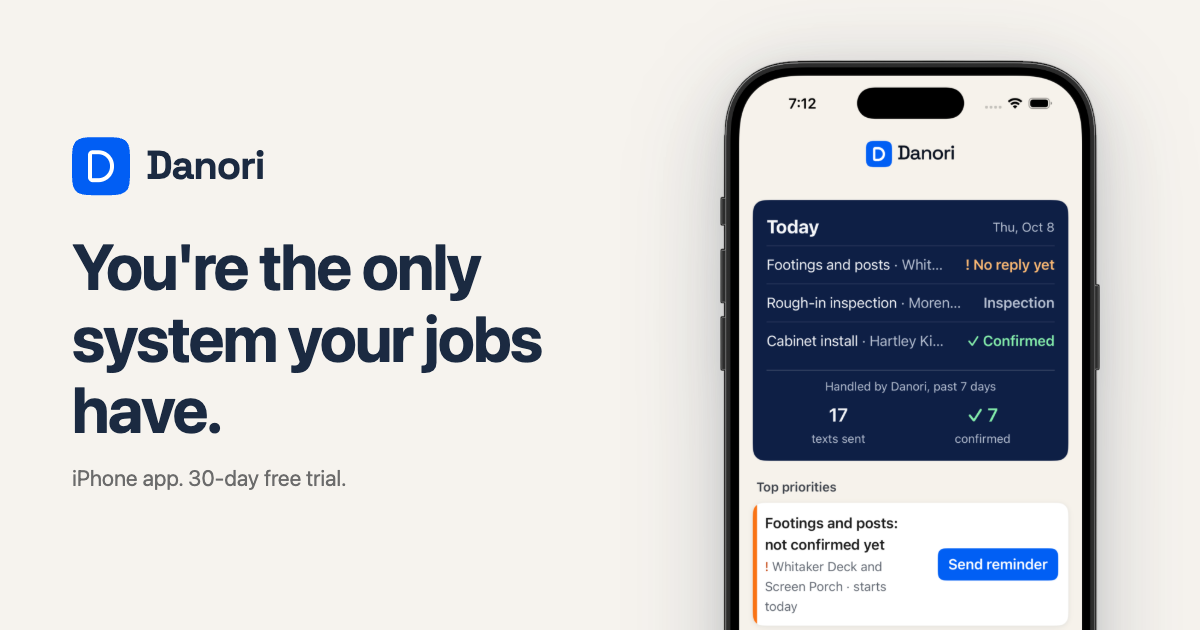
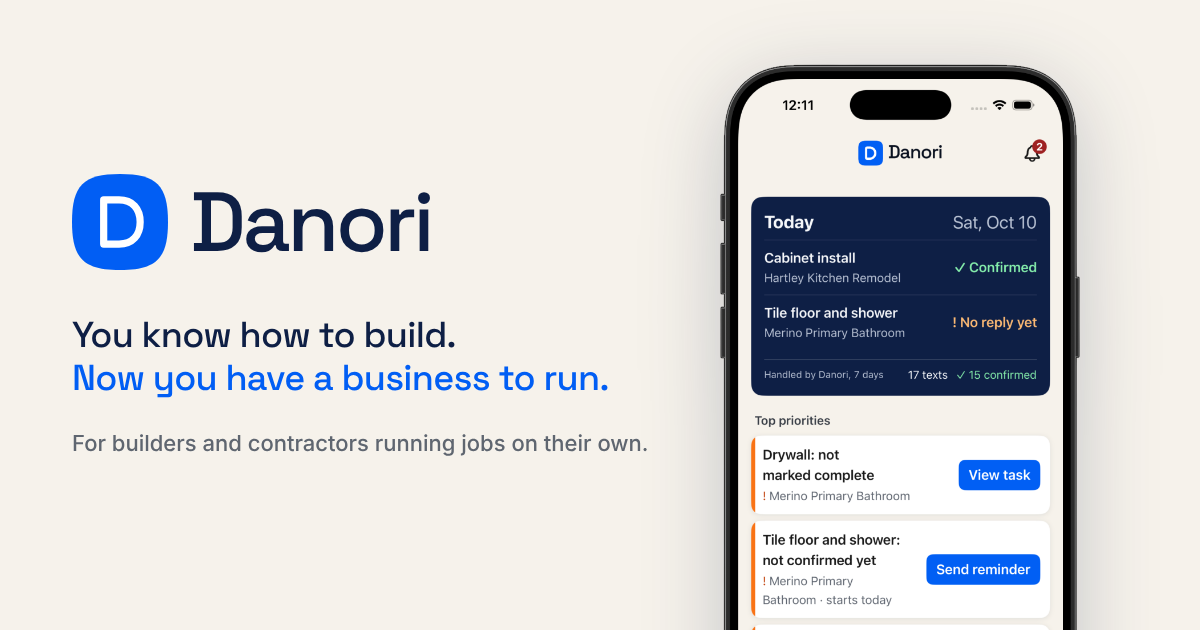
new link preview image to match the updated headline

Changed region(s): [[0.5858, 0.0905, 0.925, 1.0], [0.0617, 0.2111, 0.555, 0.7841], [0.5858, 0.3619, 0.6167, 0.3921]]

diff --git a/index.html b/index.html
@@ -9,12 +9,12 @@
   <meta name="description" content="An iPhone app for builders and contractors running jobs on their own. Danori texts your subs, tracks each job's costs and profit, and keeps your clients updated, so you can see what needs you today.">
   <meta property="og:title" content="Danori: Construction Management App for Builders and Contractors">
   <meta property="og:description" content="An iPhone app for builders and contractors running jobs on their own. Danori texts your subs, tracks each job's costs and profit, and keeps your clients updated, so you can see what needs you today.">
-  <meta property="og:image" content="https://danoriapp.com/images/og-image.png?v=2">
+  <meta property="og:image" content="https://danoriapp.com/images/og-image.png?v=3">
   <meta property="og:image:width" content="1200">
   <meta property="og:image:height" content="630">
   <meta property="og:image:alt" content="Danori on an iPhone showing today's jobs and top priorities">
   <meta property="twitter:card" content="summary_large_image">
-  <meta property="twitter:image" content="https://danoriapp.com/images/og-image.png?v=2">
+  <meta property="twitter:image" content="https://danoriapp.com/images/og-image.png?v=3">
   <link rel="stylesheet" href="styles.css">
   <link rel="stylesheet" href="styles/mobile.css" media="(max-width: 767px)">
   <script type="application/ld+json">

diff --git a/pricing.html b/pricing.html
@@ -9,12 +9,12 @@
   <meta name="description" content="Two plans, same Danori. $99 a month for up to 5 active jobs, $149 for unlimited. First month free, no card to start. iPhone only, US only.">
   <meta property="og:title" content="Danori Pricing: Plans From $99/Month">
   <meta property="og:description" content="Two plans, same Danori. $99 a month for up to 5 active jobs, $149 for unlimited. First month free, no card to start. iPhone only, US only.">
-  <meta property="og:image" content="https://danoriapp.com/images/og-image.png?v=2">
+  <meta property="og:image" content="https://danoriapp.com/images/og-image.png?v=3">
   <meta property="og:image:width" content="1200">
   <meta property="og:image:height" content="630">
   <meta property="og:image:alt" content="Danori on an iPhone showing today's jobs and top priorities">
   <meta property="twitter:card" content="summary_large_image">
-  <meta property="twitter:image" content="https://danoriapp.com/images/og-image.png?v=2">
+  <meta property="twitter:image" content="https://danoriapp.com/images/og-image.png?v=3">
   <link rel="stylesheet" href="styles.css">
   <link rel="stylesheet" href="styles/pricing.css">
   <link rel="stylesheet" href="styles/mobile.css" media="(max-width: 767px)">

diff --git a/guides/best-apps-for-solo-builders.html b/guides/best-apps-for-solo-builders.html
@@ -11,12 +11,12 @@
   <meta property="og:title" content="Best Apps for Solo Builders and Contractors to Manage Jobs, and What They Cost | Danori">
   <meta property="og:description" content="Free and paid apps for solo builders and contractors to manage jobs, with prices checked on each company's own site. What each one is good at, and who it's not for.">
   <meta property="og:url" content="https://danoriapp.com/guides/best-apps-for-solo-builders">
-  <meta property="og:image" content="https://danoriapp.com/images/og-image.png?v=2">
+  <meta property="og:image" content="https://danoriapp.com/images/og-image.png?v=3">
   <meta property="og:image:width" content="1200">
   <meta property="og:image:height" content="630">
   <meta property="og:image:alt" content="Danori on an iPhone showing today's jobs and top priorities">
   <meta property="twitter:card" content="summary_large_image">
-  <meta property="twitter:image" content="https://danoriapp.com/images/og-image.png?v=2">
+  <meta property="twitter:image" content="https://danoriapp.com/images/og-image.png?v=3">
   <link rel="stylesheet" href="/styles.css">
   <link rel="stylesheet" href="/styles/compare.css">
   <link rel="stylesheet" href="/styles/mobile.css" media="(max-width: 767px)">

diff --git a/compare/contractor-foreman-alternative.html b/compare/contractor-foreman-alternative.html
@@ -11,12 +11,12 @@
   <meta property="og:title" content="Contractor Foreman Alternative for Solo Builders | Danori">
   <meta property="og:description" content="Contractor Foreman is built for small and medium contractors. Danori is built for the builder running jobs alone. An honest side-by-side with real prices.">
   <meta property="og:url" content="https://danoriapp.com/compare/contractor-foreman-alternative">
-  <meta property="og:image" content="https://danoriapp.com/images/og-image.png?v=2">
+  <meta property="og:image" content="https://danoriapp.com/images/og-image.png?v=3">
   <meta property="og:image:width" content="1200">
   <meta property="og:image:height" content="630">
   <meta property="og:image:alt" content="Danori on an iPhone showing today's jobs and top priorities">
   <meta property="twitter:card" content="summary_large_image">
-  <meta property="twitter:image" content="https://danoriapp.com/images/og-image.png?v=2">
+  <meta property="twitter:image" content="https://danoriapp.com/images/og-image.png?v=3">
   <link rel="stylesheet" href="/styles.css">
   <link rel="stylesheet" href="/styles/compare.css">
   <link rel="stylesheet" href="/styles/mobile.css" media="(max-width: 767px)">

diff --git a/guides/subcontractor-scheduling.html b/guides/subcontractor-scheduling.html
@@ -11,12 +11,12 @@
   <meta property="og:title" content="How to Schedule Subcontractors When You're Running Jobs Alone | Danori">
   <meta property="og:description" content="A practical way to schedule subs when you're running jobs alone: what to send, when to confirm, and what to do when one doesn't show.">
   <meta property="og:url" content="https://danoriapp.com/guides/subcontractor-scheduling">
-  <meta property="og:image" content="https://danoriapp.com/images/og-image.png?v=2">
+  <meta property="og:image" content="https://danoriapp.com/images/og-image.png?v=3">
   <meta property="og:image:width" content="1200">
   <meta property="og:image:height" content="630">
   <meta property="og:image:alt" content="Danori on an iPhone showing today's jobs and top priorities">
   <meta property="twitter:card" content="summary_large_image">
-  <meta property="twitter:image" content="https://danoriapp.com/images/og-image.png?v=2">
+  <meta property="twitter:image" content="https://danoriapp.com/images/og-image.png?v=3">
   <link rel="stylesheet" href="/styles.css">
   <link rel="stylesheet" href="/styles/compare.css">
   <link rel="stylesheet" href="/styles/mobile.css" media="(max-width: 767px)">

diff --git a/compare/buildertrend-alternative.html b/compare/buildertrend-alternative.html
@@ -11,12 +11,12 @@
   <meta property="og:title" content="Buildertrend Alternative for Solo Builders | Danori">
   <meta property="og:description" content="Buildertrend is built for growing companies. Danori is built for the builder running jobs alone. An honest side-by-side with real prices.">
   <meta property="og:url" content="https://danoriapp.com/compare/buildertrend-alternative">
-  <meta property="og:image" content="https://danoriapp.com/images/og-image.png?v=2">
+  <meta property="og:image" content="https://danoriapp.com/images/og-image.png?v=3">
   <meta property="og:image:width" content="1200">
   <meta property="og:image:height" content="630">
   <meta property="og:image:alt" content="Danori on an iPhone showing today's jobs and top priorities">
   <meta property="twitter:card" content="summary_large_image">
-  <meta property="twitter:image" content="https://danoriapp.com/images/og-image.png?v=2">
+  <meta property="twitter:image" content="https://danoriapp.com/images/og-image.png?v=3">
   <link rel="stylesheet" href="/styles.css">
   <link rel="stylesheet" href="/styles/compare.css">
   <link rel="stylesheet" href="/styles/mobile.css" media="(max-width: 767px)">

diff --git a/compare/jobtread-alternative.html b/compare/jobtread-alternative.html
@@ -11,12 +11,12 @@
   <meta property="og:title" content="JobTread Alternative for Solo Builders | Danori">
   <meta property="og:description" content="JobTread is built for builders of every size. Danori is built for the one running jobs alone. An honest side-by-side with real prices.">
   <meta property="og:url" content="https://danoriapp.com/compare/jobtread-alternative">
-  <meta property="og:image" content="https://danoriapp.com/images/og-image.png?v=2">
+  <meta property="og:image" content="https://danoriapp.com/images/og-image.png?v=3">
   <meta property="og:image:width" content="1200">
   <meta property="og:image:height" content="630">
   <meta property="og:image:alt" content="Danori on an iPhone showing today's jobs and top priorities">
   <meta property="twitter:card" content="summary_large_image">
-  <meta property="twitter:image" content="https://danoriapp.com/images/og-image.png?v=2">
+  <meta property="twitter:image" content="https://danoriapp.com/images/og-image.png?v=3">
   <link rel="stylesheet" href="/styles.css">
   <link rel="stylesheet" href="/styles/compare.css">
   <link rel="stylesheet" href="/styles/mobile.css" media="(max-width: 767px)">

diff --git a/compare/jobber-alternative.html b/compare/jobber-alternative.html
@@ -11,12 +11,12 @@
   <meta property="og:title" content="Jobber Alternative for Solo Builders | Danori">
   <meta property="og:description" content="Jobber is built for home service pros. Danori is built for the builder running jobs alone. An honest side-by-side with real prices.">
   <meta property="og:url" content="https://danoriapp.com/compare/jobber-alternative">
-  <meta property="og:image" content="https://danoriapp.com/images/og-image.png?v=2">
+  <meta property="og:image" content="https://danoriapp.com/images/og-image.png?v=3">
   <meta property="og:image:width" content="1200">
   <meta property="og:image:height" content="630">
   <meta property="og:image:alt" content="Danori on an iPhone showing today's jobs and top priorities">
   <meta property="twitter:card" content="summary_large_image">
-  <meta property="twitter:image" content="https://danoriapp.com/images/og-image.png?v=2">
+  <meta property="twitter:image" content="https://danoriapp.com/images/og-image.png?v=3">
   <link rel="stylesheet" href="/styles.css">
   <link rel="stylesheet" href="/styles/compare.css">
   <link rel="stylesheet" href="/styles/mobile.css" media="(max-width: 767px)">

diff --git a/compare/index.html b/compare/index.html
@@ -11,12 +11,12 @@
   <meta property="og:title" content="Construction Software Compared for Solo Builders | Danori">
   <meta property="og:description" content="Honest comparisons of construction software for builders running jobs on their own. Real prices, dated, and who each tool is for.">
   <meta property="og:url" content="https://danoriapp.com/compare">
-  <meta property="og:image" content="https://danoriapp.com/images/og-image.png?v=2">
+  <meta property="og:image" content="https://danoriapp.com/images/og-image.png?v=3">
   <meta property="og:image:width" content="1200">
   <meta property="og:image:height" content="630">
   <meta property="og:image:alt" content="Danori on an iPhone showing today's jobs and top priorities">
   <meta property="twitter:card" content="summary_large_image">
-  <meta property="twitter:image" content="https://danoriapp.com/images/og-image.png?v=2">
+  <meta property="twitter:image" content="https://danoriapp.com/images/og-image.png?v=3">
   <link rel="stylesheet" href="/styles.css">
   <link rel="stylesheet" href="/styles/compare.css">
   <link rel="stylesheet" href="/styles/mobile.css" media="(max-width: 767px)">

diff --git a/about.html b/about.html
@@ -11,12 +11,12 @@
   <meta property="og:title" content="About Danori | iPhone App for Solo Builders">
   <meta property="og:description" content="Danori is an iPhone app for solo builders. Here's what it does, who it's for, and who it isn't.">
   <meta property="og:url" content="https://danoriapp.com/about">
-  <meta property="og:image" content="https://danoriapp.com/images/og-image.png?v=2">
+  <meta property="og:image" content="https://danoriapp.com/images/og-image.png?v=3">
   <meta property="og:image:width" content="1200">
   <meta property="og:image:height" content="630">
   <meta property="og:image:alt" content="Danori on an iPhone showing today's jobs and top priorities">
   <meta property="twitter:card" content="summary_large_image">
-  <meta property="twitter:image" content="https://danoriapp.com/images/og-image.png?v=2">
+  <meta property="twitter:image" content="https://danoriapp.com/images/og-image.png?v=3">
   <link rel="stylesheet" href="/styles.css">
   <link rel="stylesheet" href="/styles/legal.css">
   <link rel="stylesheet" href="/styles/mobile.css" media="(max-width: 767px)">
